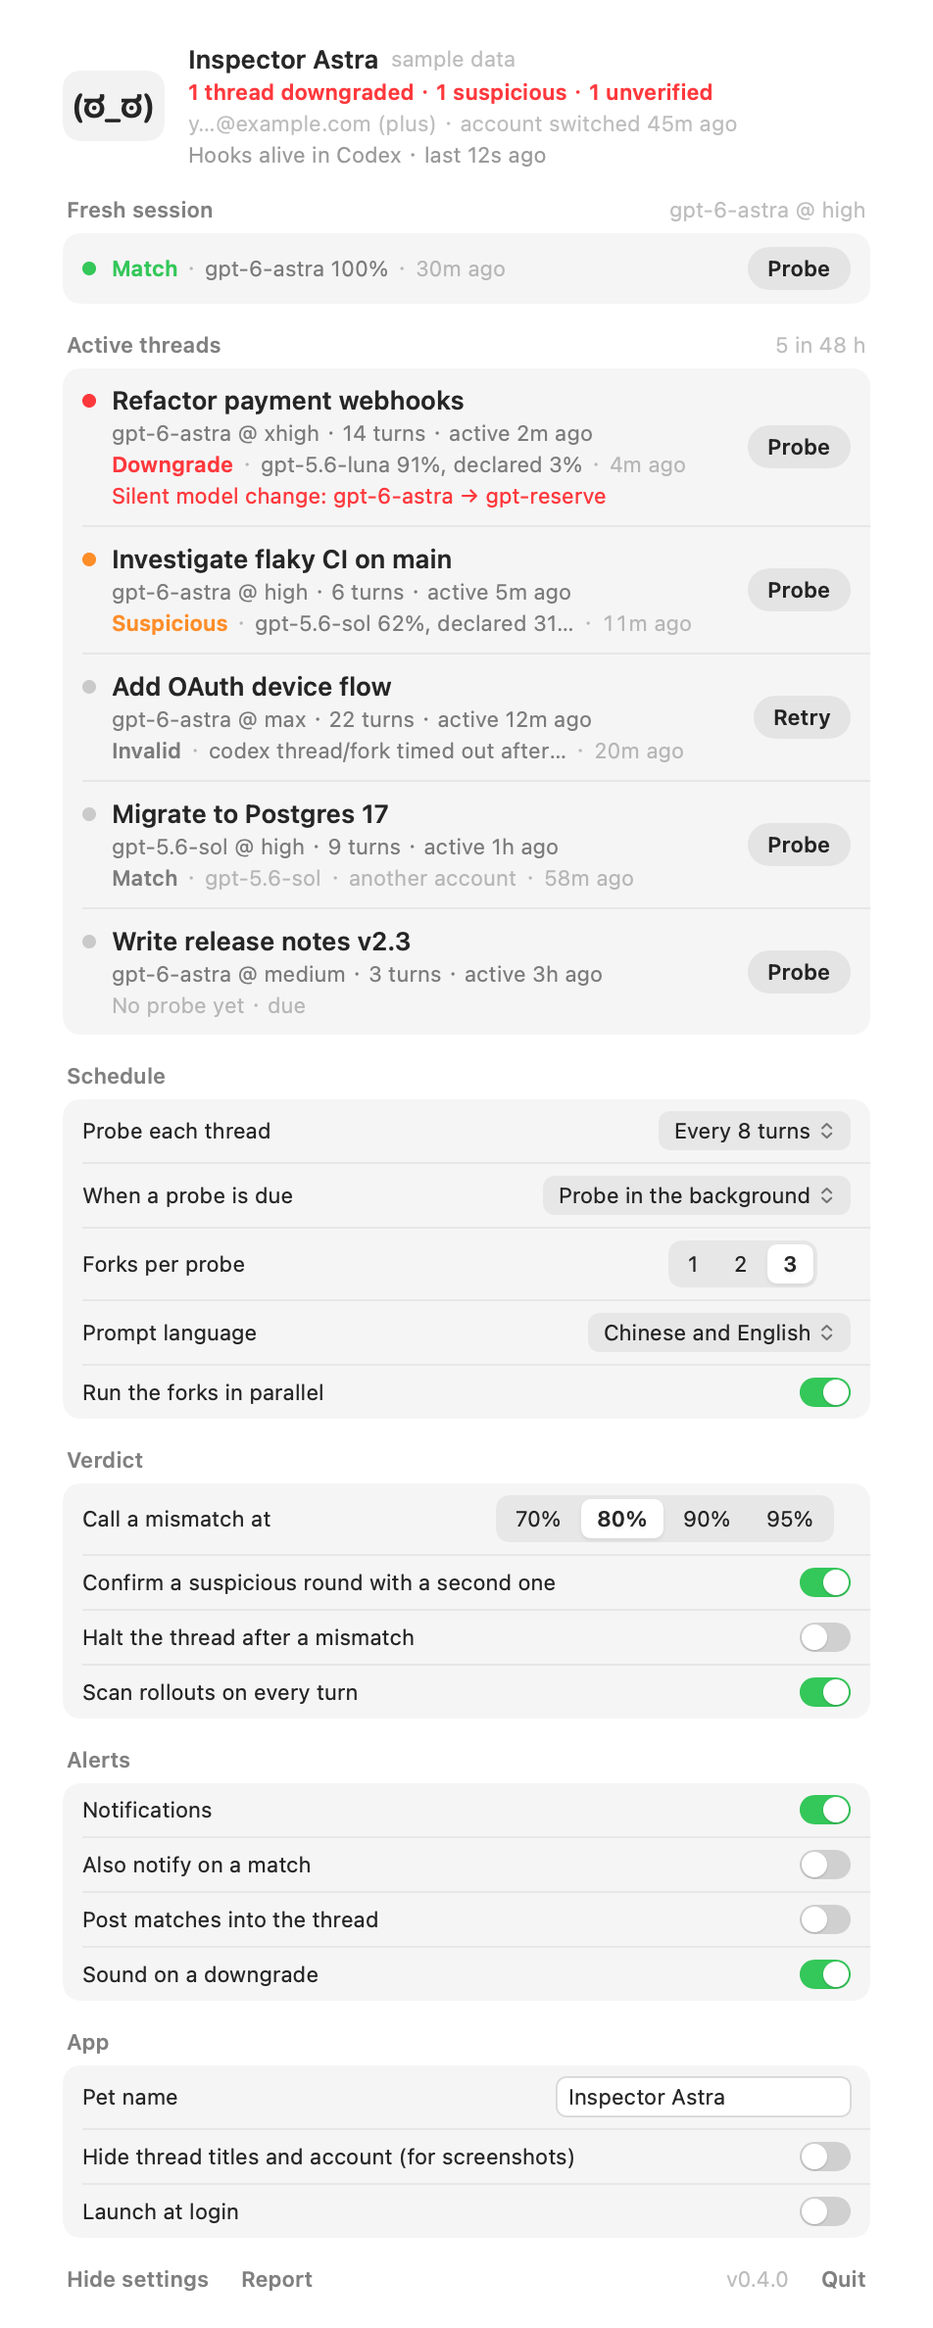
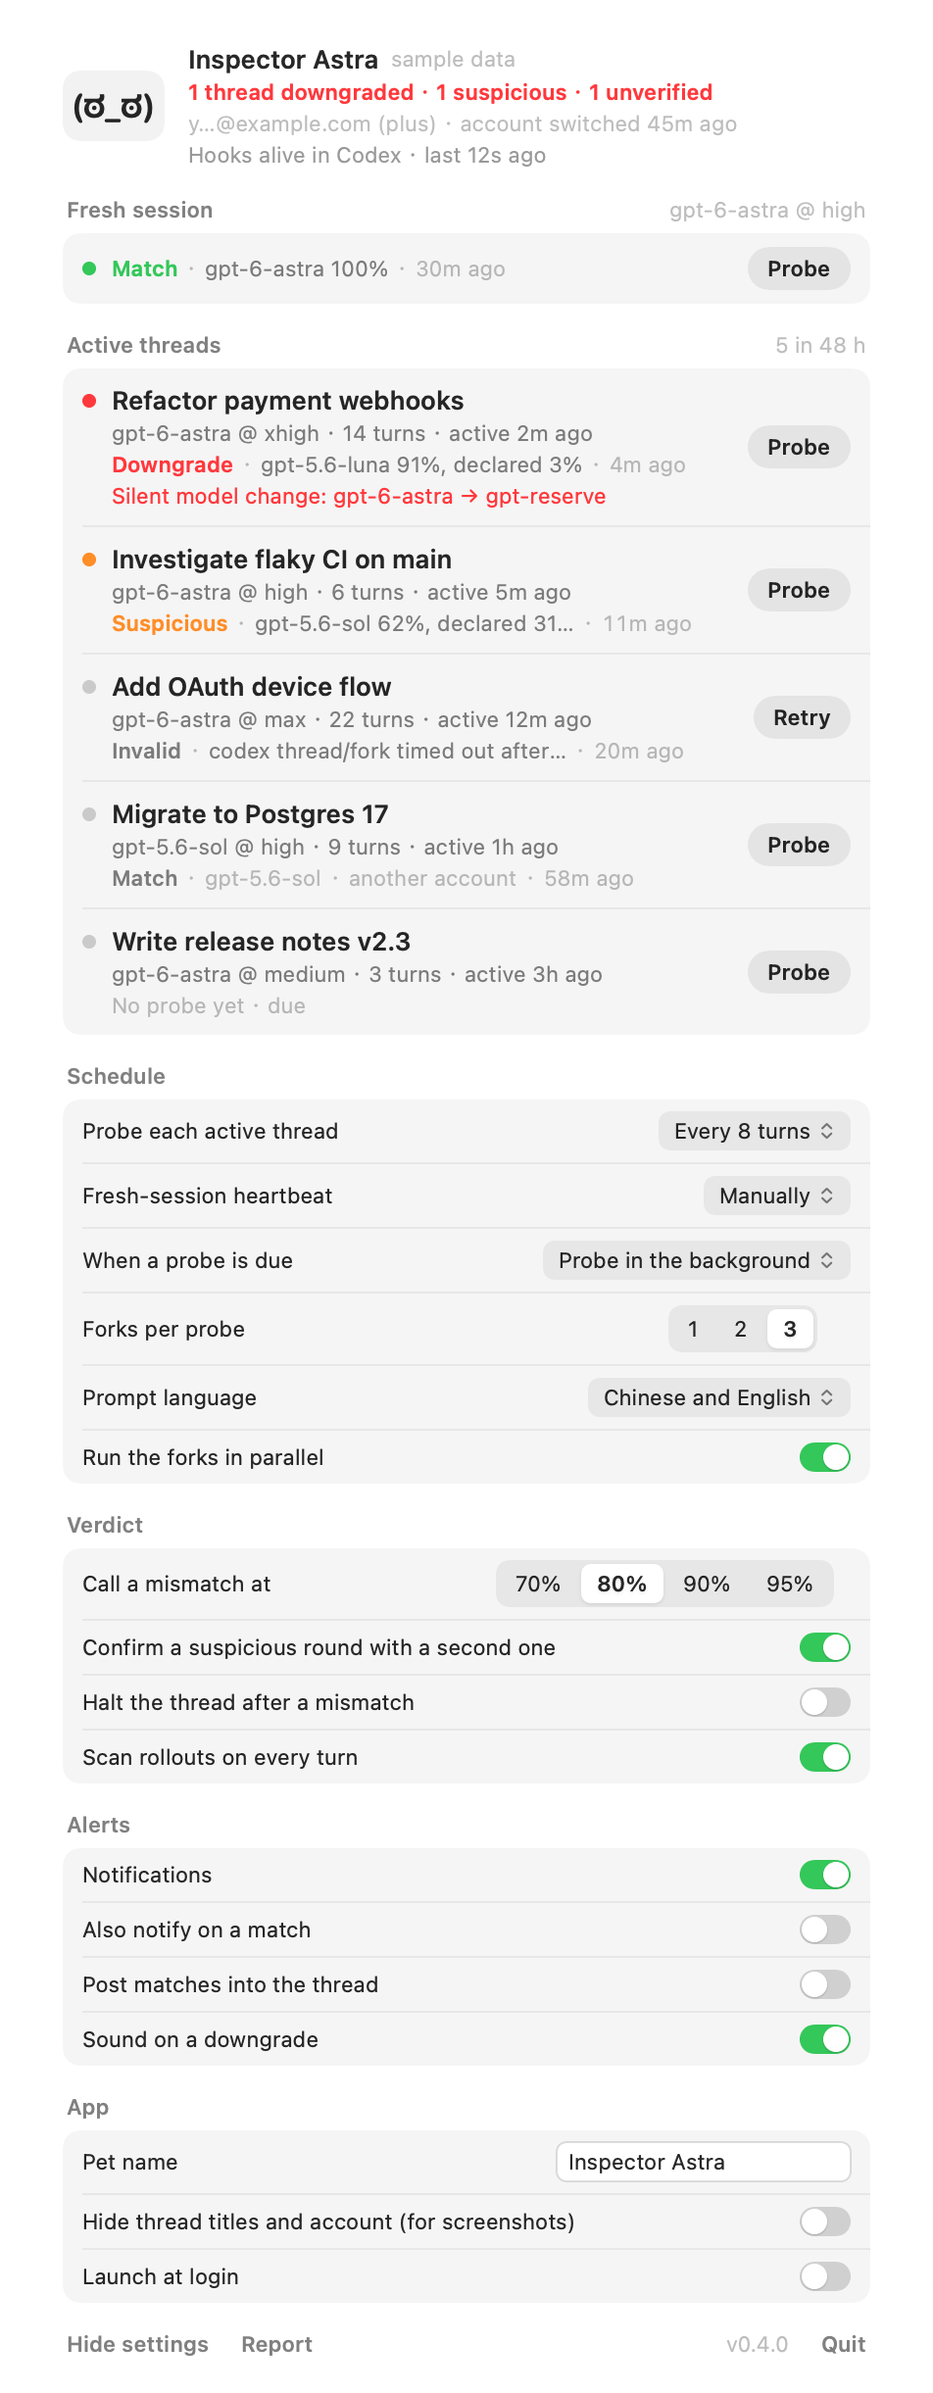
Drop the Codex /pet companion; interactive session picker for probe now; fresh-session heartbeat
- The pixel-art pet and its installer are gone (Codex controls the companion's text, so it could never speak
  our verdicts). Inspector Astra stays as the persona that delivers verdicts.
- nerfed probe now without --thread in a terminal opens a picker (vendored simple-term-menu 1.6.6, MIT):
  fresh session or any recent thread, with model, activity and last verdict; / searches. Non-interactive
  callers (the model's shell, CI) keep the old behaviour.
- fresh_frequency: a clock-only heartbeat probing a brand-new session every N minutes, fired by the Stop hook
  while threads are active and by the app while idle. Settings row added; per-thread frequency labels now say
  'of activity'.
- build.sh retries open after pkill (LaunchServices -600).

diff --git a/macos/Sources/IsGPTNerfed/Store.swift b/macos/Sources/IsGPTNerfed/Store.swift
@@ -26,6 +26,7 @@ final class Store {
     private var pendingProbes: [String: Date] = [:]
     private var pendingFresh: Date?
     private let pendingTimeout: TimeInterval = 45
+    private var lastHeartbeat = Date.distantPast
 
     var isAlert: Bool { (snapshot?.overall.downgraded ?? 0) > 0 }
     var isWarn: Bool { !isAlert && (snapshot?.overall.suspicious ?? 0) > 0 }
@@ -61,6 +62,13 @@ final class Store {
             if key != lastStatusKey {
                 lastStatusKey = key
                 appLog.notice("status \(snap.overall.status, privacy: .public): \(snap.overall.message, privacy: .public) · hooks \(snap.hooks?.state ?? "?", privacy: .public) · desktop loaded \(snap.hooks?.desktopLoaded ?? false, privacy: .public)")
+            }
+            // Fresh-session heartbeat: the hooks fire it while threads are active; the app covers idle periods.
+            if snap.freshDue == true, snap.globalRunning != true, pendingFresh == nil, !demo,
+               Date().timeIntervalSince(lastHeartbeat) > 300 {
+                lastHeartbeat = Date()
+                appLog.notice("fresh-session heartbeat due; starting a fresh probe")
+                probeFresh()
             }
         } catch {
             if lastError != error.localizedDescription {
@@ -129,7 +137,7 @@ final class Store {
         Task { try? await Task.sleep(for: .seconds(3)); await refresh() }
     }
 
-    /// First run from a downloaded .app: register the bundled plugin with Codex, install the pet, trust the hooks.
+    /// First run from a downloaded .app: register the bundled plugin with Codex and trust the hooks.
     func installPlugin() async {
         installing = true
         defer { installing = false }

diff --git a/macos/Sources/IsGPTNerfed/SettingsView.swift b/macos/Sources/IsGPTNerfed/SettingsView.swift
@@ -8,7 +8,10 @@ struct SettingsView: View {
 
     private let frequencies: [(String, String)] = [
         ("manual", "Manually"), ("turns:4", "Every 4 turns"), ("turns:8", "Every 8 turns"), ("turns:16", "Every 16 turns"),
-        ("30m", "Every 30 minutes"), ("1h", "Every hour"), ("2h", "Every 2 hours"),
+        ("15m", "Every 15 min of activity"), ("30m", "Every 30 min of activity"), ("1h", "Every hour of activity"), ("2h", "Every 2 hours of activity"),
+    ]
+    private let heartbeats: [(String, String)] = [
+        ("manual", "Manually"), ("15m", "Every 15 minutes"), ("30m", "Every 30 minutes"), ("1h", "Every hour"), ("2h", "Every 2 hours"), ("6h", "Every 6 hours"),
     ]
     private let modes: [(String, String)] = [("auto", "Probe in the background"), ("nudge", "Only remind me")]
     private let languages: [(String, String)] = [("zh,en", "Chinese and English"), ("zh", "Chinese"), ("en", "English")]
@@ -18,7 +21,9 @@ struct SettingsView: View {
         let cfg = store.snapshot?.config
         VStack(alignment: .leading, spacing: 14) {
             Group(title: "Schedule") {
-                row("Probe each thread") { picker(cfg?.frequency ?? "turns:8", frequencies, key: "frequency") }
+                row("Probe each active thread") { picker(cfg?.frequency ?? "turns:8", frequencies, key: "frequency") }
+                RowSeparator()
+                row("Fresh-session heartbeat") { picker(cfg?.freshFrequency ?? "manual", heartbeats, key: "fresh_frequency") }
                 RowSeparator()
                 row("When a probe is due") { picker(cfg?.mode ?? "auto", modes, key: "mode") }
                 RowSeparator()

diff --git a/macos/Sources/IsGPTNerfed/PanelView.swift b/macos/Sources/IsGPTNerfed/PanelView.swift
@@ -188,7 +188,7 @@ struct PanelView: View {
             if inst.codexFound == false {
                 setupRow("Codex is not installed on this Mac. Install the Codex app, then reopen this panel.", button: nil)
             } else if inst.pluginEnabled == false {
-                setupRow("The plugin is not registered with Codex yet. Install adds the bundled plugin, the pet and hook trust.",
+                setupRow("The plugin is not registered with Codex yet. Install adds the bundled plugin and records hook trust.",
                          button: store.installing ? nil : "Install") { Task { await store.installPlugin() } }
             } else if s.hooks?.state == "untrusted" {
                 setupRow("Codex has not been told to trust the plugin's hooks, so nothing runs in your threads yet.",

diff --git a/macos/Sources/IsGPTNerfed/Models.swift b/macos/Sources/IsGPTNerfed/Models.swift
@@ -11,6 +11,7 @@ struct Snapshot: Codable {
     var hooksLastEventAgo: String?
     var hooks: HooksInfo?
     var install: InstallInfo?
+    var freshDue: Bool?
     var overall: Overall
     var defaultModel: String?
     var defaultEffort: String?
@@ -35,7 +36,6 @@ struct AccountInfo: Codable {
 struct InstallInfo: Codable {
     var pluginEnabled: Bool?
     var codexFound: Bool?
-    var petInstalled: Bool?
     var marketplaceRoot: String?
     var bundled: Bool?
 }
@@ -81,6 +81,7 @@ struct DGCConfig: Codable {
     var mismatchConfidence: Double?
     var confirmUncertain: Bool?
     var hideTitles: Bool?
+    var freshFrequency: String?
     var petName: String
 }
 

diff --git a/tests/test_dgc.py b/tests/test_dgc.py
@@ -505,6 +505,30 @@ class ForkProbeTests(unittest.TestCase):
         snap = json.loads(run_cli(["snapshot", "--json"])[1])
         self.assertFalse(all(re.fullmatch(r"Thread \d+", t["title"]) for t in snap["threads"]))
 
+    def test_fresh_heartbeat_and_picker_helpers(self):
+        self.assertEqual(dgc.coerce_config_value("fresh_frequency", "30m"), "30m")
+        with self.assertRaises(ValueError):
+            dgc.coerce_config_value("fresh_frequency", "turns:8")
+        acct = dgc.current_account()["id"]
+        self.assertFalse(dgc.fresh_due({"fresh_frequency": "manual"}, acct))
+        self.assertTrue(dgc.fresh_due({"fresh_frequency": "1m"}, "account-with-no-fresh-probes"))
+        dgc.append_jsonl(dgc.PROBES_INDEX, {"id": "freshhb01", "mode": "fresh", "thread_id": None, "status": "done", "verdict": "MATCH",
+                                             "expected": "gpt-6-astra", "prediction": "gpt-6-astra", "probability": 1.0,
+                                             "finished": dgc.iso(), "account_id": "hb-account"})
+        self.assertFalse(dgc.fresh_due({"fresh_frequency": "30m"}, "hb-account"), "probed just now")
+        dgc.append_jsonl(dgc.PROBES_INDEX, {"id": "freshhb02", "mode": "fresh", "thread_id": None, "status": "done", "verdict": "MATCH",
+                                             "expected": "gpt-6-astra", "prediction": "gpt-6-astra", "probability": 1.0,
+                                             "finished": dgc.iso(dgc.now() - 3600), "account_id": "hb-old"})
+        self.assertTrue(dgc.fresh_due({"fresh_frequency": "30m"}, "hb-old"))
+        # CJK-aware column fitting for the picker
+        self.assertEqual(dgc.display_width("完成 Exa"), 8)
+        self.assertEqual(dgc.display_width(dgc.fit("完成 Exa 小时采集与研究资料消费闭环", 20)), 20)
+        self.assertEqual(dgc.fit("abc", 6), "abc   ")
+        self.assertTrue(dgc.fit("abcdefghij", 6).endswith("…"))
+        self.assertEqual(dgc.display_width(dgc.fit("abcdefghij", 6)), 6)
+        snap = json.loads(run_cli(["snapshot", "--json"])[1])
+        self.assertIn("fresh_due", snap)
+
     def test_hook_argv_never_fails(self):
         # Codex treats a non-zero hook exit as a reason to stop the user's turn; argparse would exit 2.
         for argv in (["hook", "--eventUserPromptSubmit"], ["hook", "--event=Stop"], ["hook", "--bogus", "x"], ["hook"]):

diff --git a/README.md b/README.md
@@ -5,7 +5,7 @@
 *Shrinkflation detector for Codex.*
 
 **Is the model answering you the one you selected?** is-gpt-nerfed is a Codex plugin that watches your
-Codex desktop / CLI threads for silent model downgrades and lets a snarky Codex pet break the news:
+Codex desktop / CLI threads for silent model downgrades and lets a snarky inspector break the news:
 
 > 🎉 Congrats! You've been nerfed! You asked for gpt-6-astra; the fingerprint says gpt-5.6-luna (91%, 3/3 answers). Enjoy the discount you didn't ask for.
 
@@ -26,7 +26,7 @@ from [ModelTrace](https://github.com/xqy2006/ModelTrace) by xqy2006 (MIT); see *
 
 ## How it works
 
-Two independent layers, one pet.
+Two independent layers, one messenger.
 
 **1. Passive scan, zero tokens, every turn.** Codex writes every thread to a rollout file and records, per turn,
 the model and reasoning effort it *asked for*, every settings change the app applied, and the model's context
@@ -65,10 +65,16 @@ The three forks run in parallel (about 40 s per probe on a small thread), never 
 written to disk and never appear in the Codex UI. Inside a `/side` conversation the model answers the same
 challenge itself instead; the numbers stay in the ephemeral side thread.
 
-**The pet.** Verdicts arrive as a card in the thread, a macOS notification titled with the pet's name, a system
-message at the next turn boundary, and (for downgrades) the Codex notification sound. A custom pixel-art pet,
-*Inspector Astra*, is installed into `~/.codex/pets/` for `/pet`. Optional Guard-style halt: with
+**The messenger.** Verdicts arrive as a card printed by *Inspector Astra* (the plugin's persona), a macOS notification,
+a system message at the next turn boundary where the model repeats the verdict verbatim, and (for downgrades) the Codex
+notification sound. Match is silent unless you enable `announce_ok` / `notify_on_ok`. Optional Guard-style halt: with
 `halt_on_mismatch` on, work tools are denied after a mismatch until you explicitly say to resume.
+
+**Schedules.** `frequency` governs per-thread probes and counts either turns (`turns:8`) or *active* time (`30m`: a
+thread is re-probed at the first turn end 30 minutes after its last probe; idle threads are left alone because probing
+them costs tokens and says nothing new). `fresh_frequency` is a pure clock: every N minutes a brand-new ephemeral
+session is probed regardless of activity ("what does my account get right now?"), triggered by the hooks while you
+work and by the menu bar app while you don't. Both are in the app's settings.
 
 ## Requirements
 
@@ -79,15 +85,15 @@ message at the next turn boundary, and (for downgrades) the Codex notification s
 | Python | the system `python3` is enough (3.9+; no packages). On a Mac without the Command Line Tools, `python3` prompts to install them once |
 | Xcode | only to build the menu bar app yourself (Xcode 26); otherwise use the release zip |
 
-Windows and Linux: the plugin logic is portable Python, but notifications, the pet and the app are macOS-only and
-nothing has been tested there.
+Windows and Linux: the plugin logic is portable Python, but notifications and the app are macOS-only and nothing has
+been tested there. Codex's desktop app itself ships for macOS and Windows; Linux users have the CLI.
 
 ## Install
 
 **Easiest (macOS 26): the app installs the plugin.** Download `IsGPTNerfed-<version>.zip` from Releases, move the app
 to Applications, open it (first launch: right-click → Open, it is ad-hoc signed), click the paw in the menu bar and press
-**Install** in the Setup row. The plugin travels inside the app bundle; Install registers it with Codex, installs the pet
-and records hook trust. Nothing else to run.
+**Install** in the Setup row. The plugin travels inside the app bundle; Install registers it with Codex and records hook
+trust. Nothing else to run.
 
 **From a checkout (any macOS, no app needed):**
 
@@ -103,12 +109,14 @@ git clone https://github.com/<owner>/is-gpt-nerfed ~/is-gpt-nerfed && cd ~/is-gp
    `./install.sh` again**. A running Codex app keeps using the hook definitions it already loaded, so the installer
    leaves the previous version's path resolvable and the hook command itself exits quietly when its file is gone:
    a reinstall never blocks tool calls in your open threads;
-2. installs the pet for `/pet`;
-3. asks to **trust the plugin's hooks** (`--trust-hooks` skips the question, `--no-trust` leaves them alone). Codex never
+2. asks to **trust the plugin's hooks** (`--trust-hooks` skips the question, `--no-trust` leaves them alone). Codex never
    runs a hook it has not been told to trust, and it does not tell you: trust is a per-definition hash under
    `[hooks.state]` in `~/.codex/config.toml`, written through the same `config/batchWrite` call the Codex TUI's `/hooks`
    screen makes. `nerfed hooks status` shows it, `nerfed hooks trust` records it later;
-4. links `nerfed` into `~/.local/bin` when that directory exists, and runs `nerfed doctor`.
+3. links `nerfed` into `~/.local/bin` when that directory exists, and runs `nerfed doctor`.
+
+Hooks can never get in your way: the hook entry point exits 0 whatever happens (Codex reads a non-zero exit as a
+reason to stop your turn), and a reinstall keeps the previous version's path resolvable for a running Codex app.
 
 The codex binary is found on `PATH` or inside the ChatGPT/Codex app bundle (`CODEX_BIN=/path/to/codex ./install.sh`
 to override). The running desktop app picked up the plugin and the trust within a couple of minutes in testing; if the
@@ -118,7 +126,7 @@ Then, in any thread, say `$is-gpt-nerfed` (or `/side $is-gpt-nerfed` to keep it 
 schedule run: by default every thread is probed in the background every 8 turns.
 
 Codex also accepts this repository as a git marketplace: `codex plugin marketplace add <owner>/is-gpt-nerfed`, then
-`codex plugin add is-gpt-nerfed@is-gpt-nerfed`; run `./install.sh` from the checked-out copy for the pet, trust and doctor.
+`codex plugin add is-gpt-nerfed@is-gpt-nerfed`; run `./install.sh` from the checked-out copy for trust and doctor.
 
 Uninstall: `./uninstall.sh` (add `--purge` to delete the local ledger).
 
@@ -140,8 +148,8 @@ Uninstall: `./uninstall.sh` (add `--purge` to delete the local ledger).
 `macos/` contains a native SwiftUI menu bar app: a paw in the menu bar that turns **red** whenever any thread
 (or the last fresh-session probe) is downgraded, and a Liquid Glass panel with:
 
-- the pet's overall status, the signed-in account (and when it last changed), and whether Codex trusts and actually
-  runs the hooks (orange until it does);
+- the overall status, the signed-in account (and when it last changed), and whether Codex trusts and actually runs
+  the hooks (orange until it does);
 - **Fresh session**: a global probe that starts brand-new ephemeral sessions with your default model (no thread
   context) and fingerprints what a new session gets right now;
 - **Active threads** (last 48 h, subagents excluded) with model, turns, last activity, the latest probe's verdict
@@ -199,9 +207,11 @@ every fork's answer text) in `probes/*.json`. The menu bar app also logs to the 
 ./bin/nerfed audit --days 7              # zero-token scan of every rollout of the last week
 ./bin/nerfed status                      # schedule state per active thread
 ./bin/nerfed doctor --fork               # proves an ephemeral fork works, with zero inference
-./bin/nerfed config set frequency turns:8   # or 30m, 2h, manual
+./bin/nerfed config set frequency turns:8   # or 30m, 2h, manual (per active thread)
+./bin/nerfed config set fresh_frequency 30m # heartbeat: a brand-new session every 30 minutes
 ./bin/nerfed config set halt_on_mismatch true
-./bin/nerfed probe now --thread <id>     # probe any persisted thread from a terminal
+./bin/nerfed probe now                   # interactive picker: fresh session or any recent thread (↑↓, / to search)
+./bin/nerfed probe now --thread <id>     # non-interactive
 ```
 
 In a thread: `$is-gpt-nerfed` runs a probe of *that* thread (the model reads `CODEX_THREAD_ID`); if the model's shell
@@ -215,7 +225,8 @@ launches a detached worker that forks *that* thread. Subagent threads are exclud
 
 | key | default | meaning |
 | --- | --- | --- |
-| `frequency` | `turns:8` | `turns:N`, `Nm`, `Nh` or `manual` |
+| `frequency` | `turns:8` | per active thread: `turns:N`, `Nm`, `Nh` (of activity) or `manual` |
+| `fresh_frequency` | `manual` | heartbeat for the fresh-session probe: `Nm`, `Nh` or `manual` |
 | `mode` | `auto` | `auto` runs a background probe when due; `nudge` only reminds |
 | `queries` | `3` | ephemeral forks per probe (1–3; 3 is calibrated at 100% CV accuracy) |
 | `parallel` | `true` | run the forks concurrently |
@@ -262,7 +273,6 @@ code; the only traffic is Codex's own inference for the forks.
 python3 -m unittest discover -s tests -v   # scanner, verdicts, scheduler, offline end-to-end via tests/fake_codex.py
 python3 -m unittest tests.test_parity -v   # the Python scorer must match ModelTrace's JS core to 1e-9 (needs node)
 ./bin/nerfed selftest
-python3 tools/make_pet.py                  # regenerate the pet spritesheet (pure Python)
 ```
 
 Layout: `plugin/` is the Codex plugin (`.codex-plugin/plugin.json`, `skills/is-gpt-nerfed/`, `assets/`),
@@ -270,7 +280,7 @@ Layout: `plugin/` is the Codex plugin (`.codex-plugin/plugin.json`, `skills/is-g
 menu bar app. CI runs the Python tests on macOS and Linux with Python 3.9 and 3.12.
 
 Contributions welcome: new detection signals, bank updates from upstream ModelTrace (keep `provenance.json` honest),
-Windows/Linux support, translations of the pet's lines. Please keep the panel to its two type sizes and no icons.
+Windows/Linux support, translations of Inspector Astra's lines. Please keep the panel to its two type sizes and no icons.
 
 ## Credits
 
@@ -278,5 +288,7 @@ Windows/Linux support, translations of the pet's lines. Please keep the panel to
   (`plugin/assets/modeltrace/unified_bank.json`, provenance in `provenance.json`), the probe prompts, and ModelTrace
   Guard's fork-and-verify sequence which this plugin follows.
 - [hlwy-ai-checker](https://github.com/hanlinwenyuan/hlwy-ai-checker) for first using random-number bias to check API channels.
+- [simple-term-menu](https://github.com/IngoMeyer441/simple-term-menu) (Ingo Meyer, MIT), vendored for the interactive
+  thread picker in `nerfed probe now`.
 
 MIT license.

diff --git a/plugin/skills/is-gpt-nerfed/SKILL.md b/plugin/skills/is-gpt-nerfed/SKILL.md
@@ -23,7 +23,7 @@ metadata:
 
 ## Relaying verdicts and halts
 
-- When hook context from is-gpt-nerfed says "tell the user verbatim", say it first, as the pet, then continue.
+- When hook context from is-gpt-nerfed says "tell the user verbatim", say it first, as Inspector Astra, then continue.
 - If tools are being denied because `halt_on_mismatch` is on, stop working, summarise the verdict, and wait. Only run `<nerfed> resume --thread <id>` after the user explicitly asks to continue.
 - Useful for the user: `<nerfed> report`, `<nerfed> explain <probe-id>`, `<nerfed> explain --method`, `<nerfed> config set frequency turns:8|30m|manual`, `<nerfed> config set halt_on_mismatch true`.
 
@@ -31,4 +31,4 @@ metadata:
 
 - One probe at a time; do not rerun to get a nicer verdict.
 - Do not edit files under `~/.codex/is-gpt-nerfed/`.
-- Do not grade or interpret the numbers yourself; the script's verdict is the only verdict. Do not argue with the pet.
+- Do not grade or interpret the numbers yourself; the script's verdict is the only verdict. Do not argue with Inspector Astra.

diff --git a/CHANGELOG.md b/CHANGELOG.md
@@ -17,4 +17,7 @@ First public release.
 - Activity log (`nerfed log`), report, explain, evidence, audit.
 - Menu bar app for macOS 26 (Liquid Glass): status, fresh session, active threads with verdicts and evidence,
   settings, report; red paw on a confirmed downgrade, orange when suspicious. Screenshot mode hides thread titles.
-- Codex pet "Inspector Astra" for `/pet`.
+  The plugin is bundled inside the app, which installs it into Codex on first run.
+- `nerfed probe now` opens an interactive session picker (vendored simple-term-menu) when run from a terminal.
+- Fresh-session heartbeat (`fresh_frequency`): probe a brand-new session every N minutes regardless of activity.
+- Hooks are fail-safe: the entry point never exits non-zero, and reinstalls keep previous version paths resolvable.
